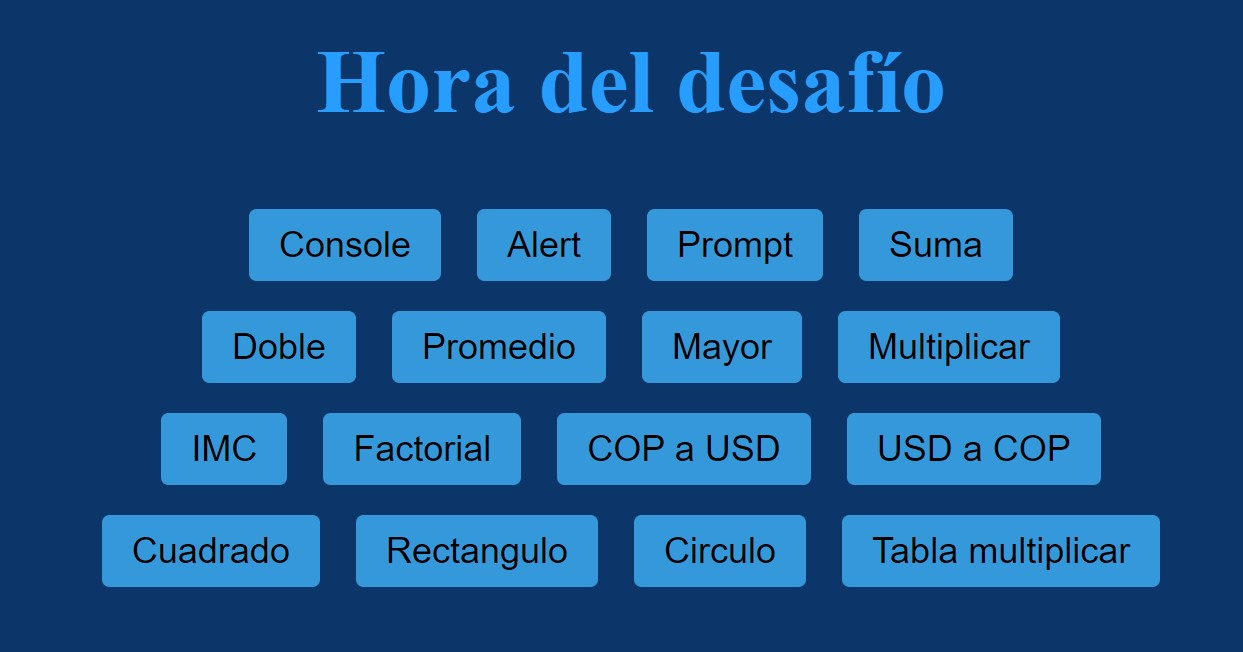
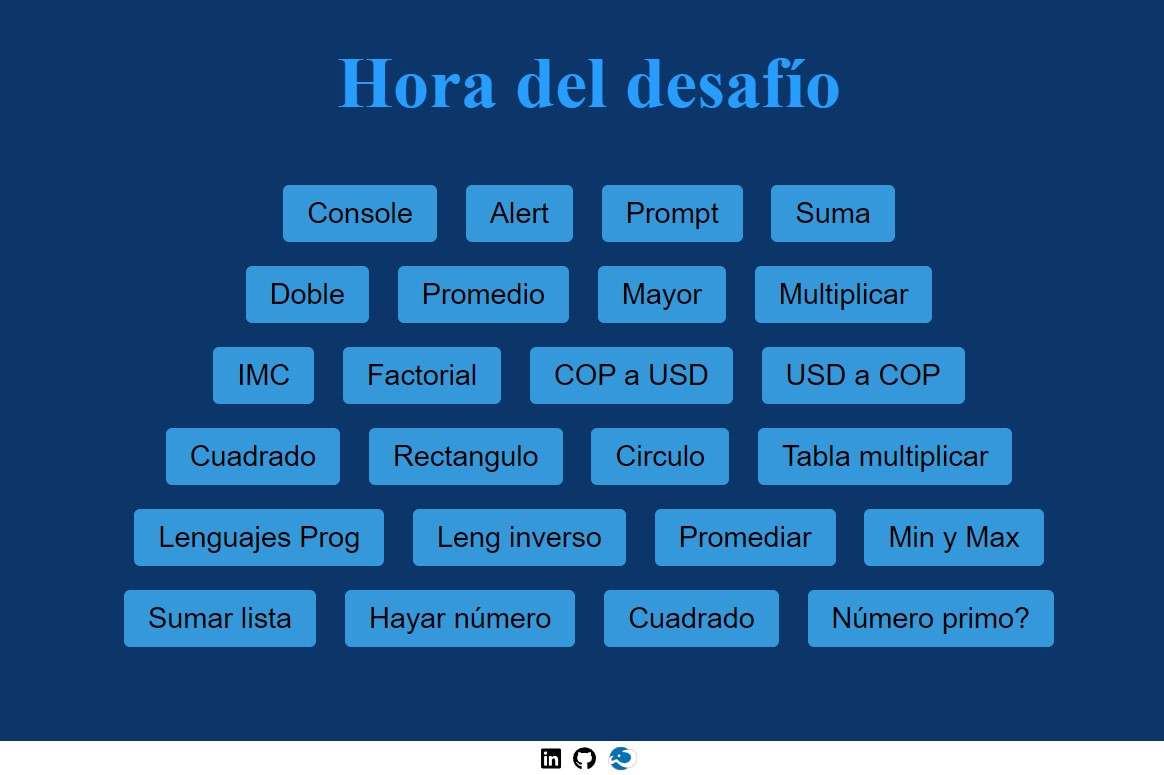
[FEAT] Agregar mas funciones Listar lenguajes, order inverso, Promediar, Minimo y maximo en una lista, Sumar lista, Hallar un numero, cuadrado de numero, numero primo

diff --git a/app.js b/app.js
@@ -165,3 +165,152 @@ function tablaMultiplicar() {
         ${resultados[9]}\n`    
     )
 }
+
+
+
+// Crea una lista de lenguajes de programación llamada "lenguagesDeProgramacion con los siguientes elementos: 'JavaScript', 'C', 'C++', 'Kotlin' y 'Python'.
+let lenguagesDeProgramacion = ['JavaScript', 'Python', 'Java'];
+
+// Agrega a la lista "lenguagesDeProgramacion los siguientes elementos: 'Java', 'Ruby' y 'GoLang'.
+lenguagesDeProgramacion.push('C#');
+lenguagesDeProgramacion.push('PHP');
+
+// Crea una función que muestre en la consola todos los elementos de la lista "lenguagesDeProgramacion.
+function mostrarLengujesDeProgramacion(){
+    alert(`Los lenguajes mas usados en 2023 son:
+        1. ${lenguagesDeProgramacion[0]}
+        2. ${lenguagesDeProgramacion[1]}
+        3. ${lenguagesDeProgramacion[2]}
+        4. ${lenguagesDeProgramacion[3]}
+        5. ${lenguagesDeProgramacion[4]}`
+    )
+}
+// Crea una función que muestre en la consola todos los elementos de la lista "lenguagesDeProgramacion en orden inverso.
+function invertirOrdenLista (lista) {
+    let mensaje = '';
+    for (let i = lista.length; i>0; i--){
+        mensaje += '\n' + i + `. ` + lista[i-1];
+    }
+    return mensaje
+
+}
+function mostrarListaInvertida () {
+    alert(`Lenguajes mas usados en 2023 (orden invertido) ${invertirOrdenLista(lenguagesDeProgramacion)}`)
+}
+
+// Crea una función que calcule el promedio de los elementos en una lista de números.
+function promediar () {
+    let arrayNumeros = []
+    let cantidadNumeros = parseInt(prompt(`Vamos a promediar varios numeros\n¿Cuantos numeros quieres promediar?`))
+    let sumaTotal = 0;
+    let promedio = 0;
+    for (let i = 0; i < cantidadNumeros; i++) {
+        arrayNumeros.push(parseInt(prompt(`Ingresa el numero ${i+1}`)));
+    }
+    for (let i = 0; i < arrayNumeros.length; i++) {
+        sumaTotal += arrayNumeros[i];
+    }
+    promedio = sumaTotal/cantidadNumeros;
+    alert(`El promedio es: ${promedio}`)
+}
+
+// Crea una función que muestre en la consola el número más grande y el número más pequeño en una lista.
+function minimoMaximo() {
+    let arrayNumeros = [];
+    for (let i = 0; i < 5; i++) {
+        arrayNumeros.push(parseInt(prompt(`Ingresa 5 numeros para identificar el mayor y el menor de todos\nIngresa el numero ${i+1}:`)));
+    }
+    arrayNumeros.sort((a, b) => a - b);
+    alert(`El numero minimo es: ${arrayNumeros[0]}\nEl numero maximo es: ${arrayNumeros[arrayNumeros.length-1]}`)
+}
+
+// Crea una función que devuelva la suma de todos los elementos en una lista.
+function sumarLista() {
+    let arrayNumeros = [];
+    let total = 0;
+    for (let i = 0; i < 5; i++) {
+        arrayNumeros.push(parseInt(prompt(`Ingresa 5 numeros para sumarlos\nIngresa el numero ${i+1}:`)));
+    }
+    for (let i = 0; i < arrayNumeros.length; i++) {
+        total += arrayNumeros[i];
+    }
+    alert(`El total es: ${total}`);
+}
+
+
+// Crea una función que devuelva la posición en la lista donde se encuentra un elemento pasado como parámetro, o -1 si no existe en la lista.
+
+
+let listaAleatoria = [];
+
+function crearLista () {
+    let numeroAleatorio = Math.ceil(Math.random()*10);
+    while(listaAleatoria.length < 10){
+
+        if(listaAleatoria.includes(numeroAleatorio)){
+            // volver a generar el nAleatorio
+            return crearLista();
+        } else {
+            // push al array
+            listaAleatoria.push(numeroAleatorio);
+        }
+    }
+}
+
+function hallarPosicion () {
+    crearLista();
+    let numeroParaBuscar = parseInt(prompt(`Ingresa un numero del 1 al 10 para buscar su posición en la lista`))
+    let posicion;
+    if(listaAleatoria.includes(numeroParaBuscar)){
+        for (let i = 0; i < listaAleatoria.length; i++) {
+            if(numeroParaBuscar === listaAleatoria[i]){
+                posicion = i
+            }
+        }
+        alert(`El numero ${numeroParaBuscar} está en la posición ${posicion} de la lista aleatoria`)
+    } else {
+        alert(`El numero ${numeroParaBuscar} no se encuentra en la lista aleatoria`)
+    }
+}
+
+
+// Crea una función que reciba una lista de números y devuelva una nueva lista con el cuadrado de cada número.
+function cuadrado() {
+    let arrayNumeros = [];
+    let arrayCuadrado = [];
+    for (let i = 0; i < 5; i++) {
+        arrayNumeros.push(parseInt(prompt(`Ingresa 5 numeros para hayar su valor al cuadrado\nIngresa el numero ${i+1}:`)));
+    }
+    for (let i = 0; i < arrayNumeros.length; i++) {
+        arrayCuadrado[i] = arrayNumeros[i] * arrayNumeros[i];
+    }
+    alert(`La lista original es: ${arrayNumeros}\nLa lista al cuadrado es: ${arrayCuadrado}`);
+}
+
+function numeroPrimo () {
+    let numero = parseInt(prompt(`Ingresa un número para identificar si es un número primo\nLos numeros primos solo son divisibles por si mismos y por el 1`))
+    if (numero <= 1){
+        alert(`Los numeros negativos o el 1 no son primos`)
+    }
+    for (let i = 2; i < Math.sqrt(numero); i++) {
+        if (numero % i === 0){
+            alert(`El número ${numero} no es primo`)
+        } else {
+            alert(`El número ${numero} es primo`)
+        }
+    }
+}
+
+function esPrimo(numero) {
+    if (numero <= 1) {
+      return false; // Los números negativos y el 1 no son primos
+    }
+    // Comprobamos si el número es divisible por algún otro número
+    for (let i = 2; i <= Math.sqrt(numero); i++) {
+        if (numero % i === 0) {
+            return false; // No es primo
+        }
+    }
+
+    return true; // Es primo
+}

diff --git a/index.html b/index.html
@@ -35,6 +35,18 @@
             <button onclick="circulo()" class="button">Circulo</button>
             <button onclick="tablaMultiplicar()" class="button">Tabla multiplicar</button>
         </section>
+        <section class="container">
+            <button onclick="mostrarLengujesDeProgramacion()" class="button">Lenguajes Prog</button>
+            <button onclick="mostrarListaInvertida()" class="button">Invertir lista</button>
+            <button onclick="promediar()" class="button">Promediar</button>
+            <button onclick="minimoMaximo()" class="button">Min y Max</button>
+        </section>
+        <section class="container">
+            <button onclick="sumarLista()" class="button">Sumar lista</button>
+            <button onclick="hallarPosicion()" class="button">Hallar #</button>
+            <button onclick="cuadrado()" class="button">Cuadrado #</button>
+            <button onclick="numeroPrimo()" class="button">Número primo?</button>
+        </section>
     </main>
 
     <footer>

diff --git a/style.css b/style.css
@@ -7,7 +7,7 @@ header {
 main, html {
   margin: 0;
   padding: 0;
-  height: 80%;
+  height: 90%;
   display: flex;
   justify-content: center;
   align-items: center;
